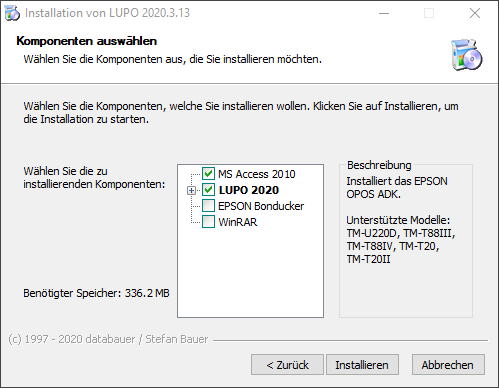
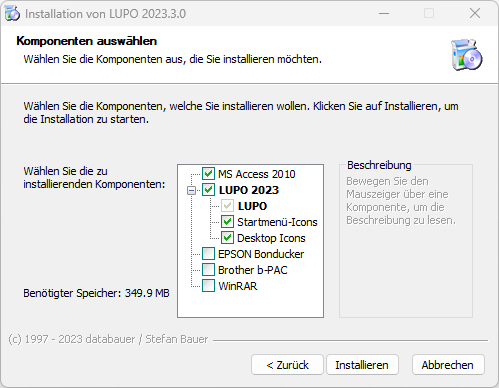
Etikettendrucker Brother

diff --git a/02.installation/07.brother-etikettendrucker/docs.de.md b/02.installation/07.brother-etikettendrucker/docs.de.md
@@ -1,0 +1,102 @@
+---
+title: 'Etikettendrucker Brother'
+taxonomy:
+    category:
+        - docs
+visible: true
+---
+
+#### Druckertreiber und «P-touch Editor»-Software installieren
+
+Installieren Sie als erstes die Etikettendrucker-Software, welche den Druckertreiber und den P-touch Editor enthält.
+Die Setupdatei kann von unserer Webseite heruntergeladen werden:
+
+[Download Brother Druckertreiber und P-touch](https://www.ludothekprogramm.ch/brother)
+
+#### Software P-touch Editor
+
+LUPO nutzt zum Drucken Etiketten, welche in der «P-touch Editor»-Software gestaltet wurden. Damit haben Sie maximale Freiheit bei Layout der Barcode-Etikette. Beispielsweise kann eine eigene Schriftart verwendet werden oder Sie können Ihr Logo auf dem Etikett platzieren.
+
+Bei der Installation von LUPO werden folgende Etiketten-Vorlagedateien in den Ordner C:\Lupo_daten kopiert:
+
+![brother-lbx-dateien](../../images/brother-lbx-dateien.png)
+
+Dies sind alles Vorlagen der Etikettengrösse 32 mm x 57 mm (Art. N° 11354). Sie können selbstverständlich jedes beliebige andere Etikettenformat verwenden.
+
+!! Die .label-Dateien sind für den DYMO-Drucker und können gelöscht werden.
+
+Öffnen Sie mit der P-touch Editor Software eine Label-Datei:
+
+![brother-p-touch-editor](../../images/brother-p-touch-editor.png)
+
+Unter dem Reiter Einfügen können Sie frei Texte und Bilder dem Etikett hinzufügen oder bestehende Elemente anpassen.
+
+#### Etiketten einrichten
+
+Damit LUPO den Barcode oder Spielnamen mit Inhalt füllen kann müssen die Objekte mit dem korrekten Objektnamen versehen werden. Klicken Sie dazu im **Einfügen-Modus** mit der rechten Maustaste auf ein Objekt, dann wählen Sie **Eigenschaften**.
+
+![p-touch-editor-eigenschaften](../../images/brother-p-touch-editor-eigenschaften.png)
+
+Gültige Objektnamen, welche von LUPO mit Inhalt gefüllt werden können
+
+**Spiel-Barcode**
+
+* LUDOTHEK
+* BARCODE
+* SPNR
+* GEBÜHR
+* SPIELNAME
+* AUSFÜHRUNG
+* SPIELNAME-AUSFÜHRUNG
+* ART
+* ARTKURZ
+* ALTER
+* LAGERORT
+* INHALT
+* LIEFERANT
+* HERSTELLER
+* AZSPIELER
+* SPIELDAUER
+* AUSLEIHTAGE
+* KAUFPREIS
+* KATALOGPREIS
+* BESCHREIBUNG
+* BESCHREIBUNG_TITEL
+
+**Kunden-Barcode**
+* LUDOTHEK
+* BARCODE
+* ADRNR
+* VORNAME
+* NACHNAME
+* VORNAME_NACHNAME
+* GRUPPE
+* STRASSE
+* PLZ
+* ORT
+* PLZ-ORT
+* ABOENDDAT
+
+#### LUPO-Einstellungen
+
+Unter **Übersicht → Einstellungen → Programmeinstellungen** bei Spiel-Barcode den entsprechenden Etikettentyp sowie die Label-Datei wählen:
+
+![einstellungen-spieletiketten](../../images/brother-einstellungen-spieletiketten.png)
+
+Und für die Kunden-Barcodes:
+
+![einstellungen-kundenetiketten](../../images/brother-einstellungen-kundenetiketten.png)
+
+#### Einzelne Etikette drucken
+
+Die Etikette eines Spiels kann durch Klicken auf den Barcode-Knopf in **Spiele Erfassen** Fenster gedruckt werden:
+
+![brother-spielfenster](../../images/brother-spielfenster.png)
+
+Im **Adressfenster** befindet sich hinter der Adressnummer ein Barcode-Knopf zum Drucken des Etiketts.
+
+Ebenfalls kann im Fenster **Neue Adresse** direkt nach dem Eintippen der Adresse ein Etikett gedruckt werden:
+
+![neue_adresse_erfassen](../../images/neue_adresse_erfassen.png)
+
+!! Der QL-800 Etikettendrucker druckt mit dem Thermodirekt-Verfahren. Ein Nachteil von Thermopapier ist, dass die Etiketten mit der Zeit etwas verblassen. Hitze, direktes Sonnenlicht aber auch die Kunststoffausdunstung von Plastikfolien können diesen Prozess noch beschleunigen. Deshalb sollten die Etiketten nicht mit einer Schutzfolie überklebt werden.

diff --git a/02.installation/01.setup/docs.de.md b/02.installation/01.setup/docs.de.md
@@ -12,11 +12,11 @@ Starten Sie die Datei **Setup_Lupo2023_de.exe** um mit der Installation zu begin
 
 ![Install](../../images/install-welcome.png)
 
-Klicken Sie auf **Weiter** ⭢ bis folgendes Fenster angezeigt wird:
+Klicken Sie auf <span class="btn-lupo">Weiter ></span> bis folgendes Fenster angezeigt wird:
 
 ![Install](../../images/install-components.png)
 
-Ist unter Komponenten LUPO 12 entfernen angewählt so wird der Programmordner (C:\\Lupo12) und die Access Runtime Installation vor der Installation von LUPO 12 entfernt. Benutzer Dateien (Datenbank und Logos) bleiben dabei erhalten. Dasselbe gilt für eine allfällige ältere LUPO-Installation.
+Ist unter Komponenten LUPO 12 entfernen angewählt, so wird der Programmordner (C:\\Lupo12) und die installierte Access Runtime vor der Installation von LUPO 13 entfernt. Benutzer Dateien (Datenbank und Logos) bleiben dabei erhalten. Dasselbe gilt für eine allfällige ältere LUPO-Installation.
 
 Zusammen mit LUPO kann optional auch die Software für EPSON Bondrucker (detaillierte Informationen dazu sind in der separaten Anleitung zu finden), WinRAR (ein Tool zum Öffnen von LUPO-Datensicherungen) und der Adobe Reader (um pdf-Dateien anzuzeigen) installiert werden. Aktivieren Sie dazu im Dialog Komponenten auswählen die gewünschten Komponenten.
 
